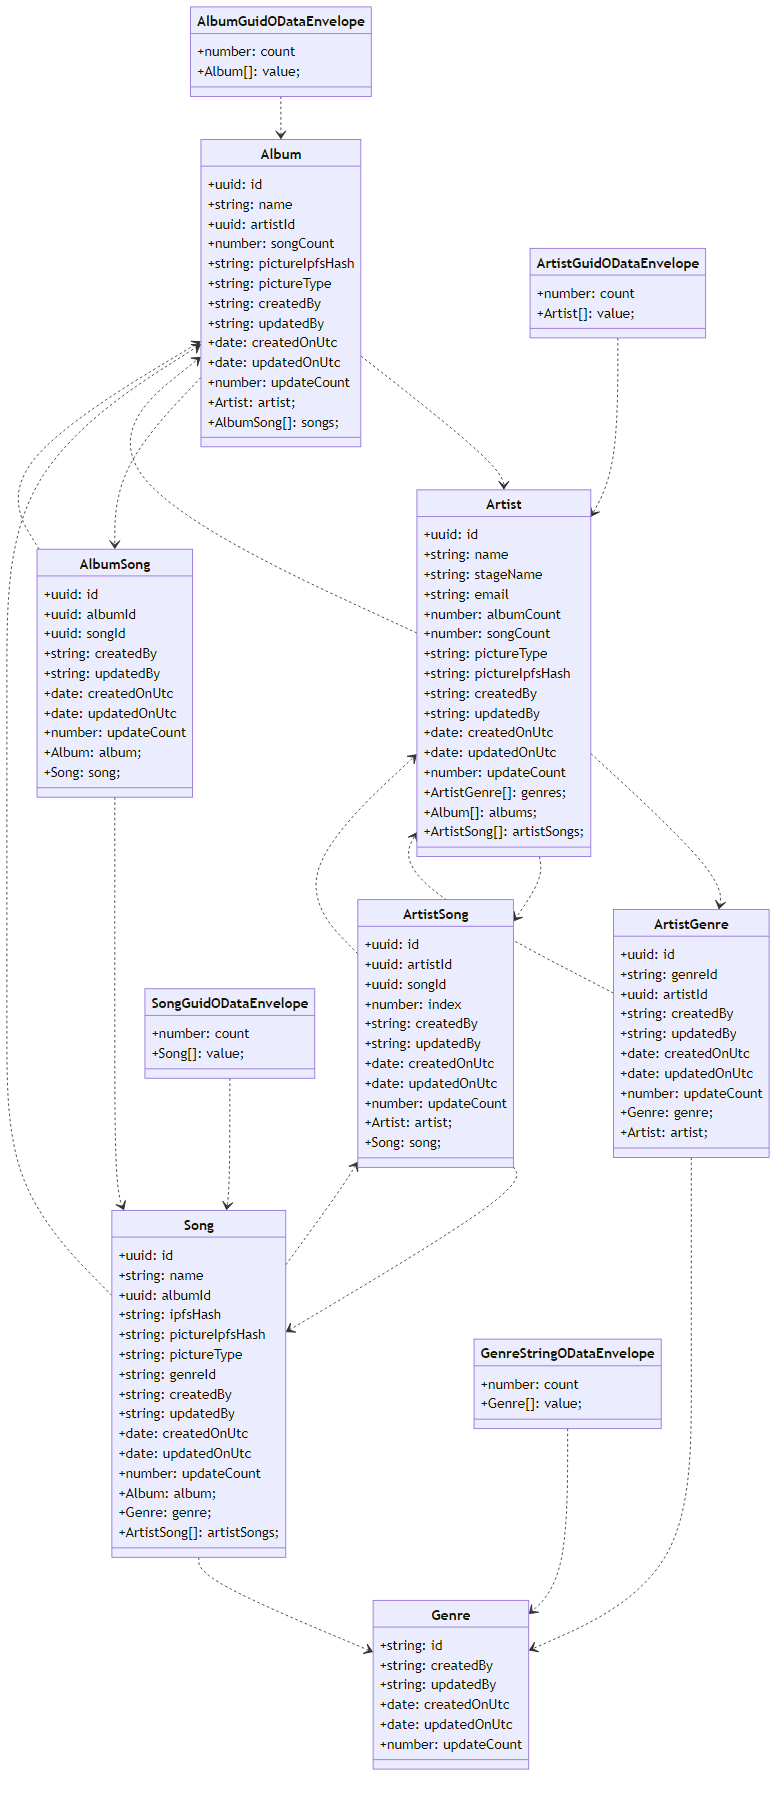
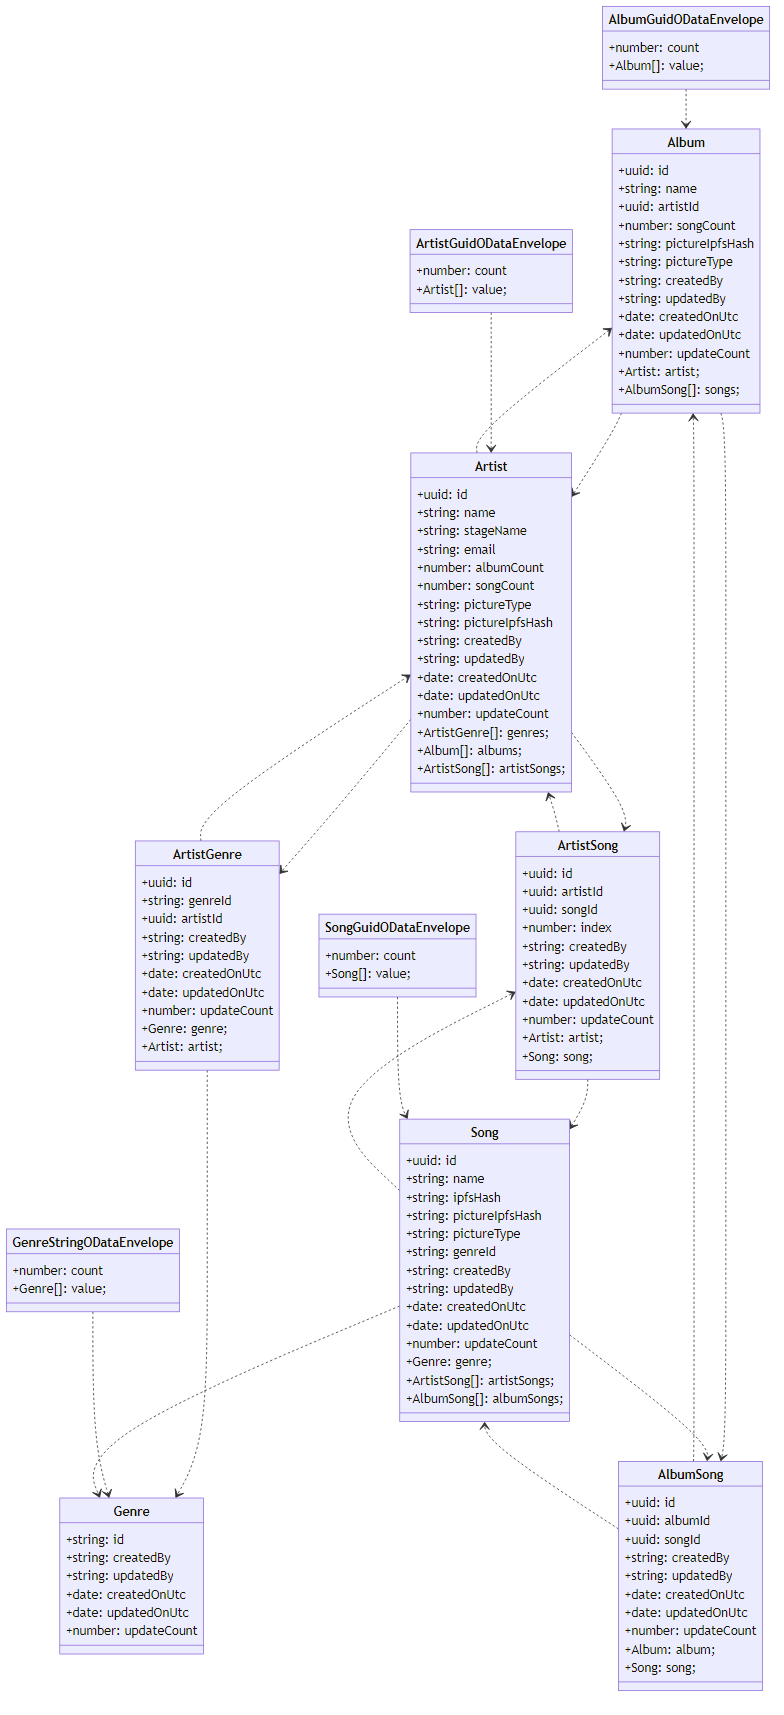
Model changes

diff --git a/src/nx/apps/itec5905/src/models/artists-webapi/song.form-group-fac.ts b/src/nx/apps/itec5905/src/models/artists-webapi/song.form-group-fac.ts
@@ -9,24 +9,22 @@
  */
 import { FormControl, FormArray, FormGroup, Validators } from '@angular/forms'; //NOSONAR
 import { ISongForm } from './song.form';
-import { IAlbumForm } from './album.form';
-import { AlbumFormGroupFac } from './album.form-group-fac';
 import { IGenreForm } from './genre.form';
 import { GenreFormGroupFac } from './genre.form-group-fac';
 import { IArtistSongForm } from './artist-song.form';
+import { IAlbumSongForm } from './album-song.form';
 
 export function SongFormGroupFac(): FormGroup<ISongForm> {
   return new FormGroup<ISongForm>({
     id: new FormControl<string | null | undefined>(null),
     name: new FormControl<string>('', { validators: Validators.compose([Validators.required, Validators.minLength(1), Validators.maxLength(255)]), nonNullable: true }),
-    albumId: new FormControl<string | null | undefined>(null),
     ipfsHash: new FormControl<string | null | undefined>(null, { validators: Validators.maxLength(255) } ),
     pictureIpfsHash: new FormControl<string | null | undefined>(null, { validators: Validators.maxLength(255) } ),
     pictureType: new FormControl<string | null | undefined>(null, { validators: Validators.maxLength(50) } ),
     genreId: new FormControl<string>('', { validators: Validators.compose([Validators.required, Validators.minLength(1), Validators.maxLength(255)]), nonNullable: true }),
     updateCount: new FormControl<number | null | undefined>(null),
-    album: new FormGroup<IAlbumForm>(AlbumFormGroupFac().controls),
     genre: new FormGroup<IGenreForm>(GenreFormGroupFac().controls, { validators: Validators.required } ),
     artistSongs: new FormArray<FormGroup<IArtistSongForm>>([]),
+    albumSongs: new FormArray<FormGroup<IAlbumSongForm>>([]),
   });
 }

diff --git a/src/nx/apps/itec5905/src/models/artists-webapi/song.form.ts b/src/nx/apps/itec5905/src/models/artists-webapi/song.form.ts
@@ -7,20 +7,19 @@
  * Do not edit.
  */
 import { FormControl, FormArray, FormGroup } from '@angular/forms'; //NOSONAR
-import { IAlbumForm } from './album.form';
 import { IGenreForm } from './genre.form';
 import { IArtistSongForm } from './artist-song.form';
+import { IAlbumSongForm } from './album-song.form';
 
 export interface ISongForm {
     id: FormControl<string | null | undefined>;
     name: FormControl<string>;
-    albumId: FormControl<string | null | undefined>;
     ipfsHash: FormControl<string | null | undefined>;
     pictureIpfsHash: FormControl<string | null | undefined>;
     pictureType: FormControl<string | null | undefined>;
     genreId: FormControl<string>;
     updateCount: FormControl<number | null | undefined>;
-    album: FormGroup<IAlbumForm>;
     genre: FormGroup<IGenreForm>;
     artistSongs: FormArray<FormGroup<IArtistSongForm>>;
+    albumSongs: FormArray<FormGroup<IAlbumSongForm>>;
 }

diff --git a/docs/artists-odata/class-diagram.html b/docs/artists-odata/class-diagram.html
@@ -25,9 +25,9 @@ classDiagram
   ArtistSong ..> Artist
   ArtistSong ..> Song
   GenreStringODataEnvelope ..> Genre
-  Song ..> Album
   Song ..> Genre
   Song ..> ArtistSong
+  Song ..> AlbumSong
   SongGuidODataEnvelope ..> Song
 
   class Album{
@@ -123,7 +123,6 @@ classDiagram
   class Song{
     +uuid: id
     +string: name
-    +uuid: albumId
     +string: ipfsHash
     +string: pictureIpfsHash
     +string: pictureType
@@ -133,9 +132,9 @@ classDiagram
     +date: createdOnUtc
     +date: updatedOnUtc
     +number: updateCount
-    +Album: album;
     +Genre: genre;
     +ArtistSong[]: artistSongs;
+    +AlbumSong[]: albumSongs;
   }
   class SongGuidODataEnvelope{
     +number: count

diff --git a/src/nx/apps/itec5905/src/models/artists-webapi/song.model.ts b/src/nx/apps/itec5905/src/models/artists-webapi/song.model.ts
@@ -6,21 +6,20 @@
  * Do not edit.
  */
 
-import { IAlbum } from './album.model';
 import { IGenre } from './genre.model';
 import { IArtistSong } from './artist-song.model';
+import { IAlbumSong } from './album-song.model';
 
 // eslint-disable-next-line @typescript-eslint/no-empty-interface
 export interface ISong {
   id?: string | null;
   name?: string;
-  albumId?: string | null;
   ipfsHash?: string | null;
   pictureIpfsHash?: string | null;
   pictureType?: string | null;
   genreId?: string;
   updateCount?: number | null;
-  album?: Partial<IAlbum>;
   genre?: Partial<IGenre>;
   artistSongs?: Partial<IArtistSong[]>;
+  albumSongs?: Partial<IAlbumSong[]>;
 }

diff --git a/docs/artists-webapi/class-diagram.html b/docs/artists-webapi/class-diagram.html
@@ -22,9 +22,9 @@ classDiagram
   ArtistGenre ..> Artist
   ArtistSong ..> Artist
   ArtistSong ..> Song
-  Song ..> Album
   Song ..> Genre
   Song ..> ArtistSong
+  Song ..> AlbumSong
 
   class Album{
     +uuid: id
@@ -123,7 +123,6 @@ classDiagram
   class Song{
     +uuid: id
     +string: name
-    +uuid: albumId
     +string: ipfsHash
     +string: pictureIpfsHash
     +string: pictureType
@@ -133,9 +132,9 @@ classDiagram
     +date: createdOnUtc
     +date: updatedOnUtc
     +number: updateCount
-    +Album: album;
     +Genre: genre;
     +ArtistSong[]: artistSongs;
+    +AlbumSong[]: albumSongs;
   }
   class SongUpsertRequest{
     +uuid: id

diff --git a/src/nx/apps/itec5905/src/models/artists-webapi/song.test-obj-fac.ts b/src/nx/apps/itec5905/src/models/artists-webapi/song.test-obj-fac.ts
@@ -12,14 +12,13 @@ export function createTestSong() {
     return { 
       [SongProperties.ID]: 'ID',
       [SongProperties.NAME]: 'NAME',
-      [SongProperties.ALBUM_ID]: 'ALBUM_ID',
       [SongProperties.IPFS_HASH]: 'IPFS_HASH',
       [SongProperties.PICTURE_IPFS_HASH]: 'PICTURE_IPFS_HASH',
       [SongProperties.PICTURE_TYPE]: 'PICTURE_TYPE',
       [SongProperties.GENRE_ID]: 'GENRE_ID',
       [SongProperties.UPDATE_COUNT]: 0, 
-      [SongProperties.ALBUM]: undefined,
       [SongProperties.GENRE]: undefined,
       [SongProperties.ARTIST_SONGS]: [],
+      [SongProperties.ALBUM_SONGS]: [],
     };
 }

diff --git a/src/nx/apps/itec5905/src/models/artists-webapi/song.properties.ts b/src/nx/apps/itec5905/src/models/artists-webapi/song.properties.ts
@@ -9,13 +9,12 @@
 export enum SongProperties {
   ID = 'id',
   NAME = 'name',
-  ALBUM_ID = 'albumId',
   IPFS_HASH = 'ipfsHash',
   PICTURE_IPFS_HASH = 'pictureIpfsHash',
   PICTURE_TYPE = 'pictureType',
   GENRE_ID = 'genreId',
   UPDATE_COUNT = 'updateCount',
-  ALBUM = 'album',
   GENRE = 'genre',
   ARTIST_SONGS = 'artistSongs',
+  ALBUM_SONGS = 'albumSongs',
 }

diff --git a/src/dotnet/Artists/ITEC5905.Artists.Migrations/Migrations/20230605055517_DropSong_Album.cs b/src/dotnet/Artists/ITEC5905.Artists.Migrations/Migrations/20230605055517_DropSong_Album.cs
@@ -1,0 +1,50 @@
+using System;
+using Microsoft.EntityFrameworkCore.Migrations;
+
+#nullable disable
+
+namespace ITEC5905.Artists.Migrations.Migrations
+{
+    /// <inheritdoc />
+    public partial class DropSong_Album : Migration
+    {
+        /// <inheritdoc />
+        protected override void Up(MigrationBuilder migrationBuilder)
+        {
+            migrationBuilder.DropForeignKey(
+                name: "FK_Songs_Albums_AlbumId",
+                table: "Songs");
+
+            migrationBuilder.DropIndex(
+                name: "IX_Songs_AlbumId",
+                table: "Songs");
+
+            migrationBuilder.DropColumn(
+                name: "AlbumId",
+                table: "Songs");
+        }
+
+        /// <inheritdoc />
+        protected override void Down(MigrationBuilder migrationBuilder)
+        {
+            migrationBuilder.AddColumn<Guid>(
+                name: "AlbumId",
+                table: "Songs",
+                type: "char(36)",
+                nullable: true,
+                collation: "ascii_general_ci");
+
+            migrationBuilder.CreateIndex(
+                name: "IX_Songs_AlbumId",
+                table: "Songs",
+                column: "AlbumId");
+
+            migrationBuilder.AddForeignKey(
+                name: "FK_Songs_Albums_AlbumId",
+                table: "Songs",
+                column: "AlbumId",
+                principalTable: "Albums",
+                principalColumn: "Id");
+        }
+    }
+}

diff --git a/src/dotnet/Artists/ITEC5905.Artists.OData/Configuration/ODataModelProvider.cs b/src/dotnet/Artists/ITEC5905.Artists.OData/Configuration/ODataModelProvider.cs
@@ -10,13 +10,13 @@ namespace ITEC5905.Artists.OData.Configuration
     public static IEdmModel GetV1EdmModel() =>
       ODataEntityModelFactory(builder =>
       {
-        _ = builder.EntitySet<V1.Artist>($"{nameof(V1.Album)}s");
-        _ = builder.EntitySet<V1.Artist>($"{nameof(V1.AlbumSong)}s");
-        _ = builder.EntitySet<V1.Artist>($"{nameof(V1.ArtistGenre)}s");
+        _ = builder.EntitySet<V1.Album>($"{nameof(V1.Album)}s");
+        _ = builder.EntitySet<V1.AlbumSong>($"{nameof(V1.AlbumSong)}s");
+        _ = builder.EntitySet<V1.ArtistGenre>($"{nameof(V1.ArtistGenre)}s");
         _ = builder.EntitySet<V1.Artist>($"{nameof(V1.Artist)}s");
-        _ = builder.EntitySet<V1.Artist>($"{nameof(V1.ArtistSong)}s");
-        _ = builder.EntitySet<V1.Artist>($"{nameof(V1.Genre)}s");
-        _ = builder.EntitySet<V1.Artist>($"{nameof(V1.Song)}s");
+        _ = builder.EntitySet<V1.ArtistSong>($"{nameof(V1.ArtistSong)}s");
+        _ = builder.EntitySet<V1.Genre>($"{nameof(V1.Genre)}s");
+        _ = builder.EntitySet<V1.Song>($"{nameof(V1.Song)}s");
       });
 
     public override IDictionary<ApiVersionDescription, IEdmModel> GetModels() =>

diff --git a/src/dotnet/Customers/ITEC5905.Customers.OData/Configuration/ODataModelProvider.cs b/src/dotnet/Customers/ITEC5905.Customers.OData/Configuration/ODataModelProvider.cs
@@ -1,7 +1,6 @@
 using IkeMtz.NRSRx.Core.OData;
 using Microsoft.AspNetCore.Mvc.ApiExplorer;
 using Microsoft.OData.Edm;
-using System.Collections.Generic;
 using V1 = ITEC5905.Customers.Models.V1;
 
 namespace ITEC5905.Customers.OData.Configuration
@@ -12,9 +11,9 @@ namespace ITEC5905.Customers.OData.Configuration
       ODataEntityModelFactory(builder =>
       {
         _ = builder.EntitySet<V1.Customer>($"{nameof(V1.Customer)}s");
-        _ = builder.EntitySet<V1.Customer>($"{nameof(V1.CustomerFavoriteArtist)}s");
-        _ = builder.EntitySet<V1.Customer>($"{nameof(V1.CustomerFavoriteGenre)}s");
-        _ = builder.EntitySet<V1.Customer>($"{nameof(V1.CustomerPurchase)}s");
+        _ = builder.EntitySet<V1.CustomerFavoriteArtist>($"{nameof(V1.CustomerFavoriteArtist)}s");
+        _ = builder.EntitySet<V1.CustomerFavoriteGenre>($"{nameof(V1.CustomerFavoriteGenre)}s");
+        _ = builder.EntitySet<V1.CustomerPurchase>($"{nameof(V1.CustomerPurchase)}s");
       });
 
     public override IDictionary<ApiVersionDescription, IEdmModel> GetModels() =>

diff --git a/src/dotnet/Artists/ITEC5905.Artists.Migrations/Migrations/20230605055517_DropSong_Album.Designer.cs b/src/dotnet/Artists/ITEC5905.Artists.Migrations/Migrations/20230605055517_DropSong_Album.Designer.cs
@@ -3,6 +3,7 @@ using System;
 using ITEC5905.Artists.Data;
 using Microsoft.EntityFrameworkCore;
 using Microsoft.EntityFrameworkCore.Infrastructure;
+using Microsoft.EntityFrameworkCore.Migrations;
 using Microsoft.EntityFrameworkCore.Storage.ValueConversion;
 
 #nullable disable
@@ -10,9 +11,11 @@ using Microsoft.EntityFrameworkCore.Storage.ValueConversion;
 namespace ITEC5905.Artists.Migrations.Migrations
 {
     [DbContext(typeof(DatabaseContext))]
-    partial class DatabaseContextModelSnapshot : ModelSnapshot
+    [Migration("20230605055517_DropSong_Album")]
+    partial class DropSong_Album
     {
-        protected override void BuildModel(ModelBuilder modelBuilder)
+        /// <inheritdoc />
+        protected override void BuildTargetModel(ModelBuilder modelBuilder)
         {
 #pragma warning disable 612, 618
             modelBuilder

diff --git a/src/dotnet/Artists/ITEC5905.Artists.Models/V1/Song.cs b/src/dotnet/Artists/ITEC5905.Artists.Models/V1/Song.cs
@@ -8,9 +8,7 @@ namespace ITEC5905.Artists.Models.V1
     public Guid Id { get; set; }
     [Required]
     [MaxLength(255)]
-    public string Name { get; set; } 
-    public Guid? AlbumId { get; set; }
-    public Album Album { get; set; }
+    public string Name { get; set; }
     [MaxLength(255)]
     public string IpfsHash { get; set; }
     [MaxLength(255)]
@@ -23,6 +21,7 @@ namespace ITEC5905.Artists.Models.V1
     [Required]
     public Genre Genre { get; set; }
     public virtual ICollection<ArtistSong> ArtistSongs { get; set; }
+    public virtual ICollection<AlbumSong> AlbumSongs { get; set; }
     [Required]
     [MaxLength(255)]
     public string CreatedBy { get; set; }
